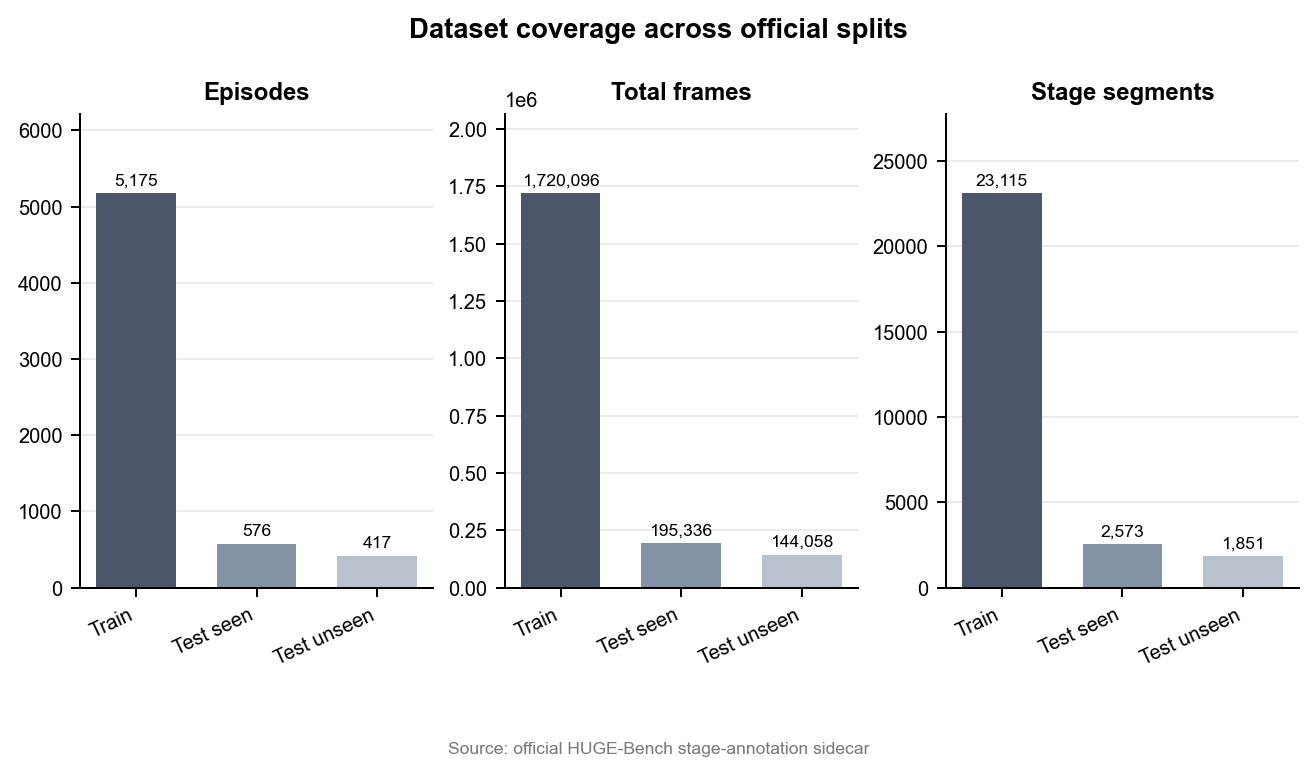
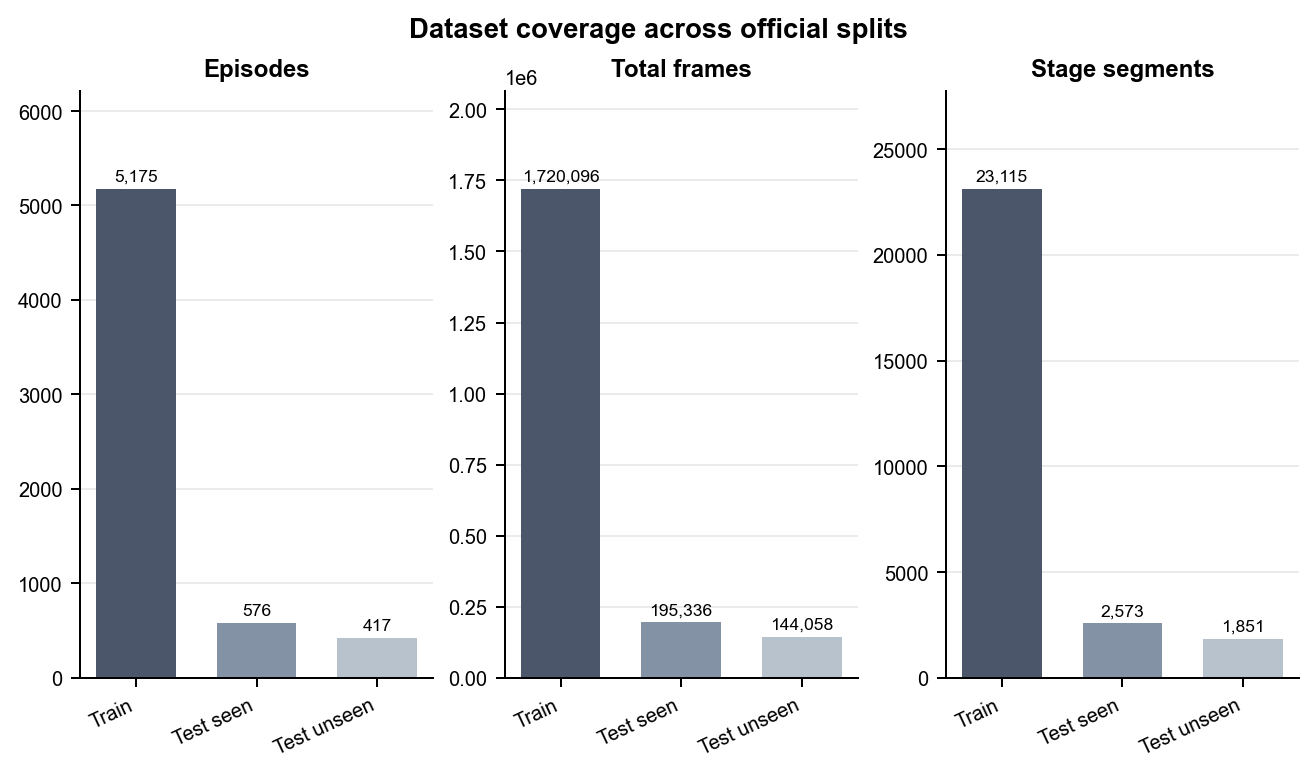
chore: regenerate footer-free reproduction outputs

diff --git a/lightweight_reproduction/outputs/HUGE_Bench_轻量复现报告.html b/lightweight_reproduction/outputs/HUGE_Bench_轻量复现报告.html
@@ -73,7 +73,7 @@
 </section>
 <section>
 <h2>7. 本地资源使用</h2>
-<p>峰值 Python 内存：99,371,512 bytes；elapsed：6.936 秒。</p>
+<p>峰值 Python 内存：99,372,783 bytes；elapsed：7.629 秒。</p>
 <p>以上为调用方提供的实测资源值。</p>
 <p>不据此声称使用或未使用 GPU。</p>
 </section>

diff --git a/lightweight_reproduction/tests/test_metric_smoke.py b/lightweight_reproduction/tests/test_metric_smoke.py
@@ -9,7 +9,17 @@ import pytest
 from huge_lightweight.metric_smoke import MetricSmokeResult, run_metric_smoke
 
 
-OFFICIAL_METRIC = Path(__file__).resolve().parents[2] / "HUGE-Bench" / "metric.py"
+def _locate_official_metric() -> Path:
+    test_path = Path(__file__).resolve()
+    fallback = test_path.parents[2].parent / "HUGE-Bench" / "metric.py"
+    for parent in test_path.parents:
+        candidate = parent / "HUGE-Bench" / "metric.py"
+        if candidate.is_file():
+            return candidate
+    return fallback
+
+
+OFFICIAL_METRIC = _locate_official_metric()
 EXPECTED_LABEL = "Synthetic metric implementation smoke test \u2014 not a paper result."
 NUMERIC_FIELDS = ("avg_tcr", "ndtw", "nsp", "success", "path_length")
 

diff --git a/lightweight_reproduction/outputs/HUGE_Bench_轻量复现报告.md b/lightweight_reproduction/outputs/HUGE_Bench_轻量复现报告.md
@@ -72,7 +72,7 @@ Synthetic metric implementation smoke test — not a paper result.
 
 ## 7. 本地资源使用
 
-峰值 Python 内存：99,371,512 bytes；elapsed：6.936 秒。
+峰值 Python 内存：99,372,783 bytes；elapsed：7.629 秒。
 
 以上为调用方提供的实测资源值。
 
